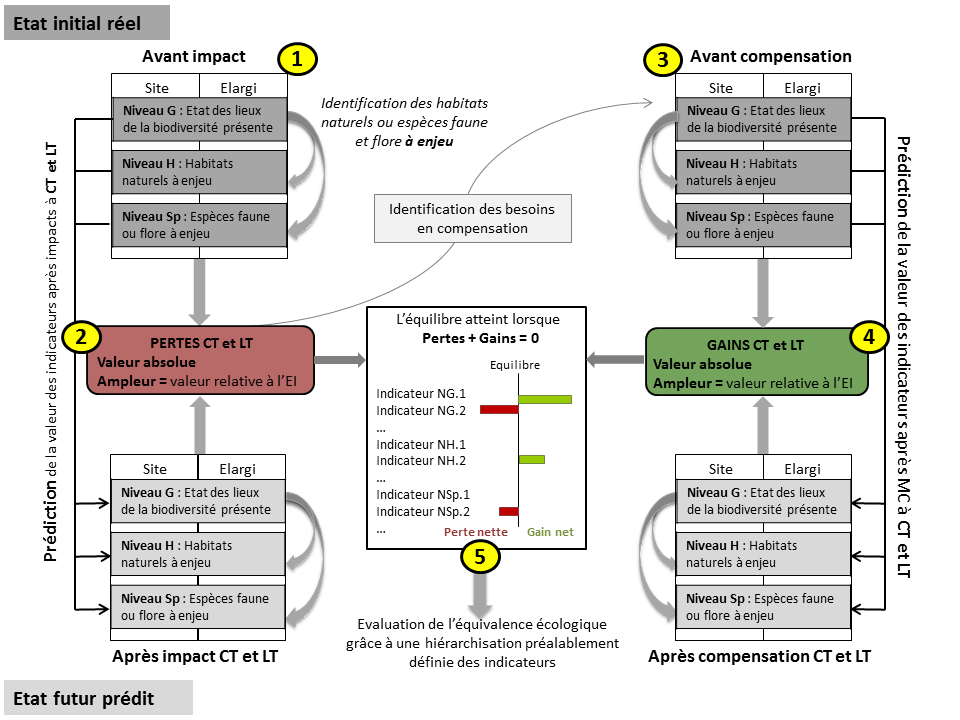
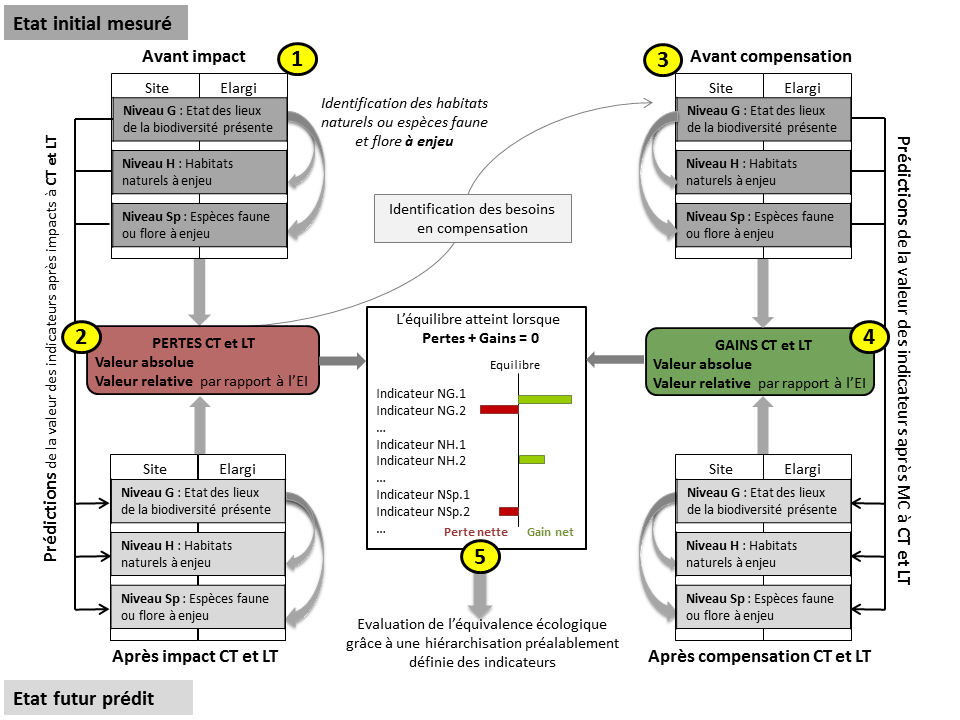
Lucie feedback

diff --git a/md/accueil_3.md b/md/accueil_3.md
@@ -4,16 +4,67 @@ author: "Lucie Bezombes & Fabrice Zaoui"
 output: html_document
 ---
 
+![Etapes](Image2.png)
+
+* * *
+
+<img style="float: right; max-width: 30%" src="Image3.png">
+
 ### **L'état initial (site impacté ou compensatoire)**
 
 <font size="4">
 Dans un premier temps, ECOVAL permet d’évaluer l’état initial des sites impactés
 et compensatoires grâce au lot d’indicateurs disponible.
-Vous aurez à renseigner de 2 à 4 étapes selon les cas :
-   - **Niveau Général** (dans tous les cas) : permet de réaliser un diagnostic de la biodiversité présente sur le site évalué. La majorité des indicateurs est calculé automatiquement à partir de la liste des espèces et habitats importée (voir détails) ou saisie directement via l’interface. Quelques indicateurs doivent être renseignés manuellement. 
+Vous aurez à renseigner de 2 à 4 étapes selon les cas :
+   - **Niveau Général** (dans tous les cas) : permet de réaliser un diagnostic de la biodiversité présente sur le site évalué. La majorité des indicateurs est calculé automatiquement à partir de la liste des espèces et habitats importée (voir détails) ou saisie directement via l’interface. Quelques indicateurs doivent être renseignés manuellement. 
    - **Identification des habitats et/ou espèces « à enjeu »**, c’est-à-dire faisant l’objet d’une règlementation spécifique, étant menacé ou ayant un rôle fonctionnel majeur (dans tous les cas). 
-   - **Niveau Habitat** (dans les cas où il y a un ou plusieurs habitat(s) à enjeu) : se focalise sur le(s) habitat(s) identifié(s). Les indicateurs doivent être renseignés manuellement pour chaque habitat à enjeu. 
-   - **Niveau Espèce** (dans les cas où il y a une ou plusieurs espèce(s) à enjeu) : se focalise sur le(s) espèce(s) identifiée(s). Les indicateurs doivent être renseignés manuellement pour chaque espèce à enjeu.
+   - **Niveau Habitat** (dans les cas où il y a un ou plusieurs habitat(s) à enjeu) : se focalise sur le(s) habitat(s) identifié(s). Les indicateurs doivent être renseignés manuellement pour chaque habitat à enjeu. 
+   - **Niveau Espèce** (dans les cas où il y a une ou plusieurs espèce(s) à enjeu) : se focalise sur le(s) espèce(s) identifiée(s). Les indicateurs doivent être renseignés manuellement pour chaque espèce à enjeu.
 
 </font>
  
+<font size="4">
+Pour chaque niveau les indicateurs sont classés en deux échelles :
+**le site** (PS), qui correspond soit au projet d’aménagement, soit aux mesures compensatoires ;
+et **le périmètre élargi** (PE), qui permet d’évaluer la manière dont le site s’insère dans son contexte paysager.
+Son rayon est défini au cas par cas grâce à différents paramètres (capacité de dispersion pour les espèces à enjeu par exemple).
+</font>
+ 
+ * * *
+ 
+### **La prédiction des valeurs des indicateurs** (après impact sur le site impacté et après compensation sur le site compensatoire)
+
+<font size="4">
+Dans un second temps, vous pouvez prédire la valeur des indicateurs renseignés
+pour l’état initial, après impacts ou mesures compensatoires,
+à court et long terme. Nous conseillons pour cette étape de réunir les experts impliqués
+dans le projet afin que les prédictions soient les plus réalistes possibles.
+L’interface vous permet de garder une trace de vos réflexions et également d’attribuer un degré d’incertitude à chaque prédiction.
+</font>
+
+### **Le calcul des «pertes»** (après impact sur le site impacté) **et des «gains»** (après compensation sur le site compensatoire)
+
+<font size="4">
+Les pertes et les gains sont calculés automatiquement en valeur «brutes»
+(ex : gain de 3 ha de prairie) et «relatives» (ex : perte de 70% de la surface en prairie)
+et sont visualisables via un graphique synthétique (voir plus bas).
+Par abus de langage les deltas observés sur le site impacté sont nommés «pertes» et
+ceux sur le site compensatoire «gains» mais il peut y avoir à la fois des diminutions (deltas négatifs)
+et augmentations (deltas positifs) des valeurs des indicateurs pour les sites impactés et compensatoires.
+</font>
+
+* * *
+
+### **L’évaluation de l’équivalence** (entre pertes sur le site impacté et gains sur le site compensatoire)
+
+<font size="4">
+L’évaluation de l’équivalence écologique est réalisée en deux temps :
+indicateur par indicateur (équilibre atteint lorsque l’effet des mesures compensatoires
+permet tout juste de compenser l’effet des impacts) et de manière transversale
+à tous les indicateurs (vérification que l’équilibre est atteint
+pour les enjeux de biodiversité prioritaire déterminés en concertation
+avec tous les acteurs lors de la phase de construction du projet).
+</font>
+
+![Indicateurs Critères](Image4.png)
+

diff --git a/md/accueil_1.md b/md/accueil_1.md
@@ -11,7 +11,7 @@ et les gains de biodiversité apportés par les mesures compensatoires associée
 Il a été développé dans le cadre d’une thèse CIFRE en partenariat avec EDF R&D,
 Irstea (LESSEM) et le Museum National d’Histoire Naturelle (CESCO),
 et testé dans le cadre d’un postdoc en partenariat avec EDF R&D, Irstea (LESSEM)
-et également par l’UMR PatriNat dans le cadre de ses partenariats.
+et également par l’UMS PatriNat dans le cadre de ses partenariats.
 Cette interface a été développée par EDF R&D pour faciliter l’utilisation d’ECOVAL
 en permettant l’import et la saisie des données, le calcul automatisé des indicateurs,
 la transparence des prédictions et la génération automatisée des sorties graphiques.
@@ -20,25 +20,33 @@ la transparence des prédictions et la génération automatisée des sorties gra
 
 <font size="4">
 Le fonctionnement d’ECOVAL est présenté dans les grandes lignes ci-dessous,
- si vous souhaitez plus de précisions nous vous invitons à consulter la page « à propos ».
- </font>
+si vous souhaitez plus de précisions nous vous invitons à consulter la page «à propos».
+</font>
  
- * * *
+* * *
  
- <font size="4">
- ECOVAL peut être utilisé dans le cas où un projet d’aménagement entraine des impacts
- résiduels significatifs sur la biodiversité qui nécessitent d’être compensés,
- et s’applique lors des études environnementales.
- Il s’adresse aux maîtres d’ouvrages afin de les guider dans le dimensionnement des
- mesures compensatoires (MC), ainsi qu’aux services instructeurs en charge de vérifier
- les MC proposées ou encore aux gestionnaires des sites compensatoires afin d’en assurer le suivi.
+<img style="float: right; max-width: 40%" src="Image1.png">
  
+<font size="4">
+ECOVAL peut être utilisé dans le cas où un projet d’aménagement entraine des impacts
+résiduels significatifs sur la biodiversité qui nécessitent d’être compensés,
+et s’applique lors des études environnementales.
+Il s’adresse aux maîtres d’ouvrages afin de les guider dans le dimensionnement des
+mesures compensatoires (MC), ainsi qu’aux services instructeurs en charge de vérifier
+les MC proposées ou encore aux gestionnaires des sites compensatoires afin d’en assurer le suivi.
  
- ECOVAL est utilisable pour tous types de milieux terrestres (dont zones humides)
- et il est adapté au contexte règlementaire et écologique français.
- Son développement a été basé sur l’analyse de plusieurs méthodes utilisées
- à l’étranger (Bezombes et al. 2017).
- Afin de garantir sa robustesse, son efficacité et son acceptabilité,
- il répond aux trois défis suivants : exhaustivité, bases scientifiques et opérationnalité.
- </font>
+ECOVAL est utilisable pour tous types de milieux terrestres (dont zones humides)
+et il est adapté au contexte règlementaire et écologique français.
+Son développement a été basé sur l’analyse de plusieurs méthodes utilisées
+à l’étranger (Bezombes et al. 2017).
+Afin de garantir sa robustesse, son efficacité et son acceptabilité,
+il répond aux trois défis suivants : exhaustivité, bases scientifiques et opérationnalité.
+</font>
  
+* * *
+
+<font size="4">
+**Attention!** ECOVAL est un outil d’aide à la décision qu’il convient d’utiliser comme préconisé et en gardant à l’esprit ses limites. Le manque d’exhaustivité des inventaires lors des états initiaux et le caractère incertain des prédictions appelle à une certaine prudence dans l’interprétation des résultats. Ceux-ci ne s’appliquent qu’aux indicateurs utilisés, qui ne représentent qu’une petite partie de la biodiversité, et doivent donc être considérés au regard des données et connaissances disponibles.
+</font>
+
+* * *
